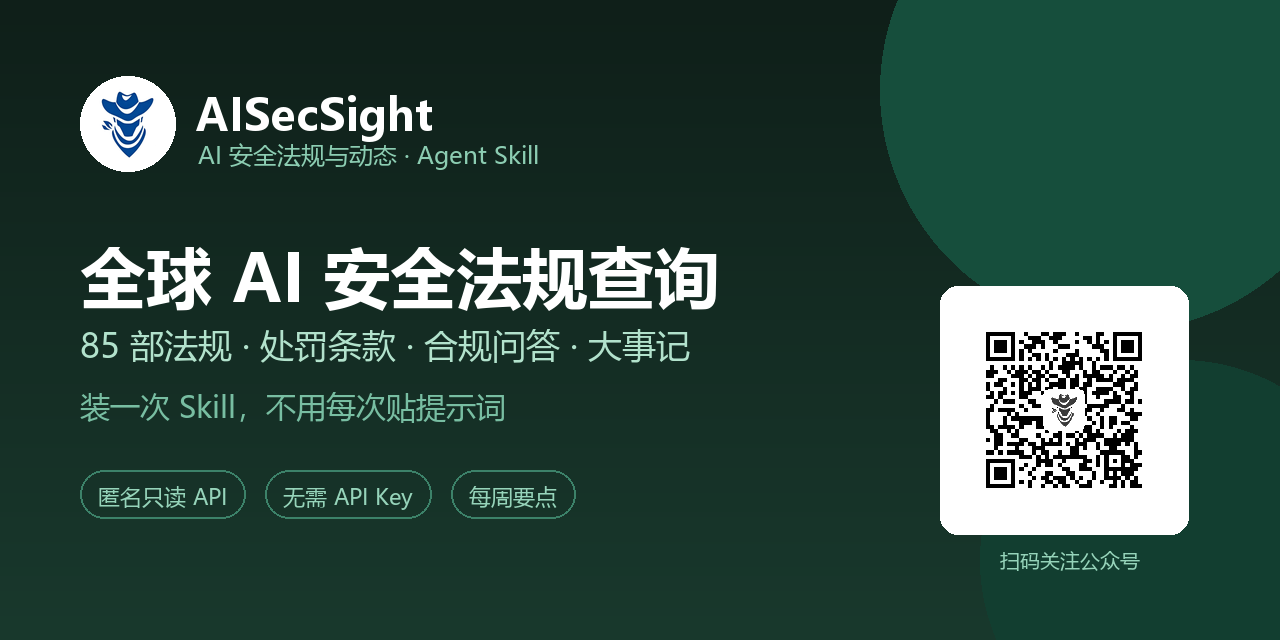
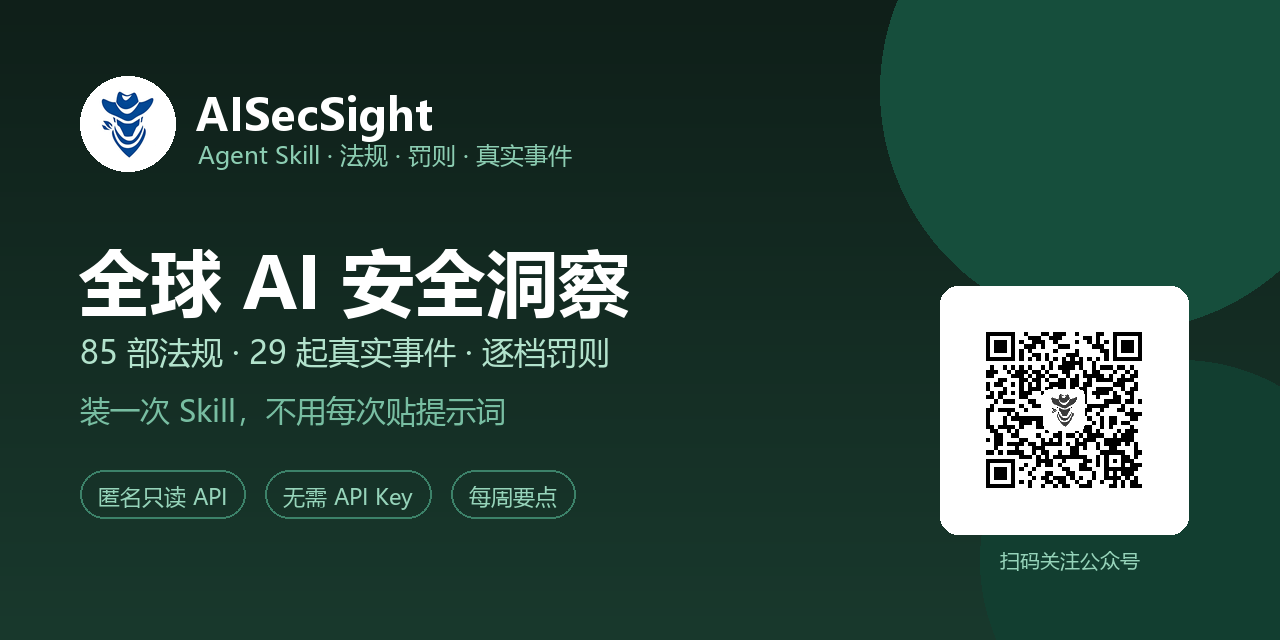
docs: 项目名称统一为「全球 AI 安全洞察」
站点自身口径（llms.txt 与页面）用的是「全球 AI 安全洞察」，仓库标题沿用
「全球 AI 安全法规查询」不一致，统一改为前者：

- README 标题 + 首屏一句话（补 85 部法规 / 29 起事件 / 31 部罚则 / 62 信源）
- README.en 标题改为 Global AI Security Insights
- 社交预览图重绘：主标题「全球 AI 安全洞察」，副标题改为数据规模
- CHANGELOG 记录改名

Changed region(s): [[0.0625, 0.375, 0.5625, 0.6875], [0.1562, 0.2188, 0.4688, 0.2812]]

diff --git a/README.md b/README.md
@@ -1,4 +1,4 @@
-# AISecSight Skill · 全球 AI 安全法规查询
+# AISecSight Skill · 全球 AI 安全洞察
 
 **简体中文** · [English](README.en.md)
 
@@ -8,6 +8,8 @@
 [![stars](https://img.shields.io/github/stars/SecurityGuardian-pro/aisecsight-skill?color=1a7a5a)](https://github.com/SecurityGuardian-pro/aisecsight-skill/stargazers)
 
 **装一次 Skill，之后问 AI 法规就自动查、自动给条款和出处，不用每次贴提示词。**
+
+> **全球 AI 安全洞察**：85 部法规与标准 · 29 起真实安全事件 · 31 部法规的逐档罚则 · 62 个信源近乎实时更新
 
 <table>
 <tr>

diff --git a/CHANGELOG.md b/CHANGELOG.md
@@ -4,6 +4,7 @@
 
 ## 文档更新 — 2026-10-30
 
+- 项目名称统一为站点口径 **全球 AI 安全洞察**（Global AI Security Insights）：README 标题、首屏一句话、英文版标题、社交预览图同步更新，不再用「全球 AI 安全法规查询」。
 - README 增加三个重点章节，把站点最有价值的三种视角讲透：
   - **Top 10**：10 部应该先读的法规与标准，含排序依据与一句话理由
   - **大事记**：29 起真实事件按六类分布，并列出最近 8 起（附一手信源）

diff --git a/README.en.md b/README.en.md
@@ -1,4 +1,4 @@
-# AISecSight Skill · Global AI Security Law Lookup
+# AISecSight Skill · Global AI Security Insights
 
 [![license](https://img.shields.io/badge/license-MIT-1a7a5a)](LICENSE)
 [![skill](https://img.shields.io/badge/skill-v1.0.0-1a7a5a)](aisecsight/SKILL.md)
